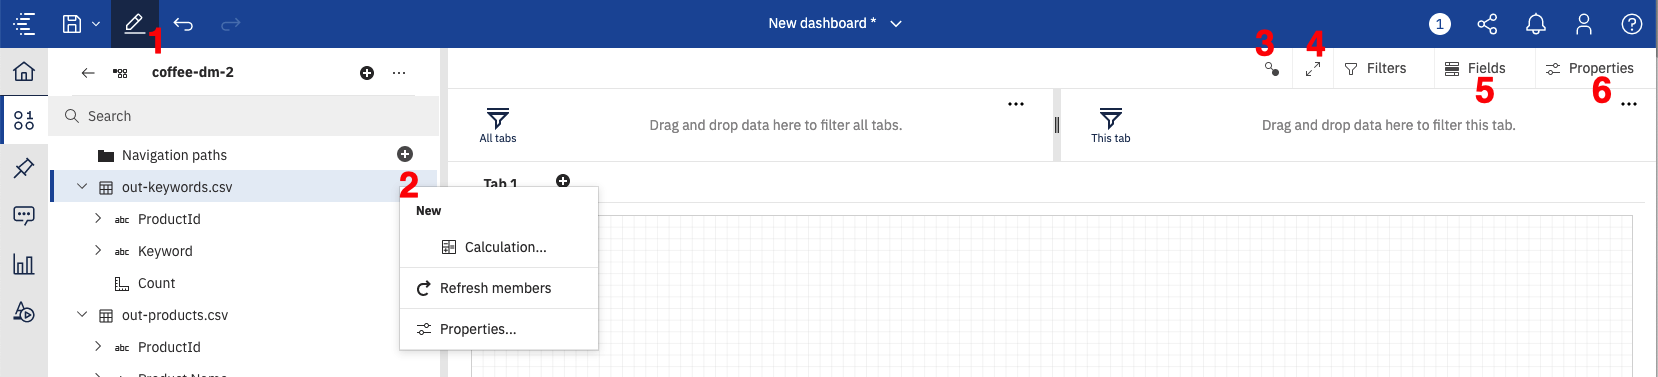
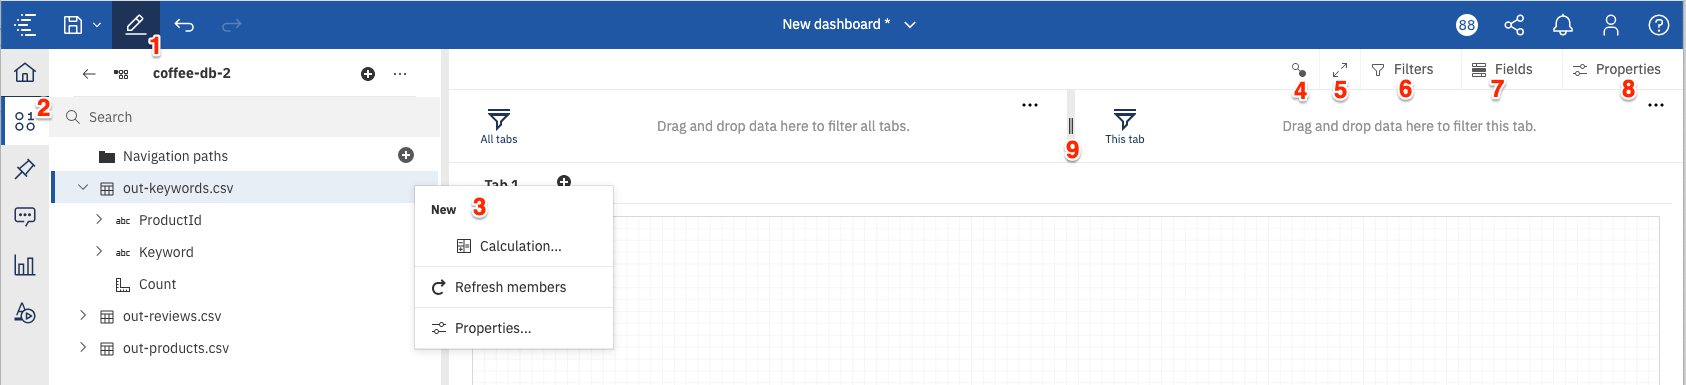
update disco readme

diff --git a/doc/source/discovery-data.md b/doc/source/discovery-data.md
@@ -245,12 +245,15 @@ To create your dashboard, you will need to become knowledgeable with the numerou
 
 From the image above:
 
-* 1 - toggles you between edit and preview mode.
-* 2 - an example of one of many drop-down menus associated with data objects.
-* 3 - displays the relationship between all of the visual objects on your dashboard. Objects with the same number are related.
-* 4 - toggles full-screen mode on and off.
-* 5 - displays the fields associated with the selected visual object.
-* 6 - properties associated with the selected visual object.
+* [1] Toggles you between edit and preview mode.
+* [2] Toggles display of the resouces (data objects) in the data module.
+* [3] An example of one of many drop-down menus associated with data objects.
+* [4] Displays the relationship between all of the visual objects on your dashboard. Objects with the same number are related.
+* [5] Toggles full-screen mode on and off.
+* [6] Toggles display of the filter panels.
+* [7] Displays the fields associated with the selected visual object.
+* [8] Displays the properties associated with the selected visual object.
+* [9] Filters that can be applied to dashboard visual objects. The filter can be set for all dashboard tabs (left side), or for the current tab (righ side).
 
 The types of visualizations available include the following:
 
